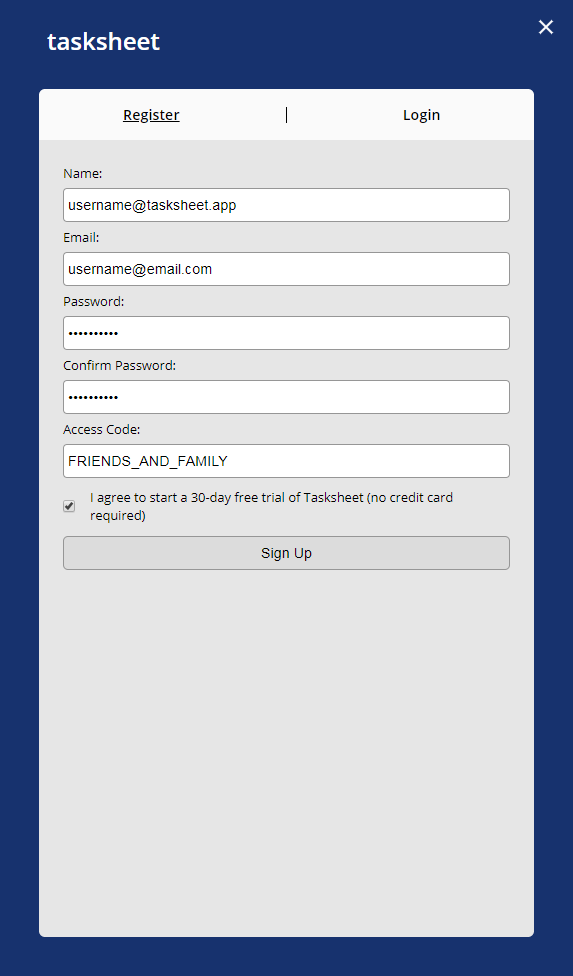
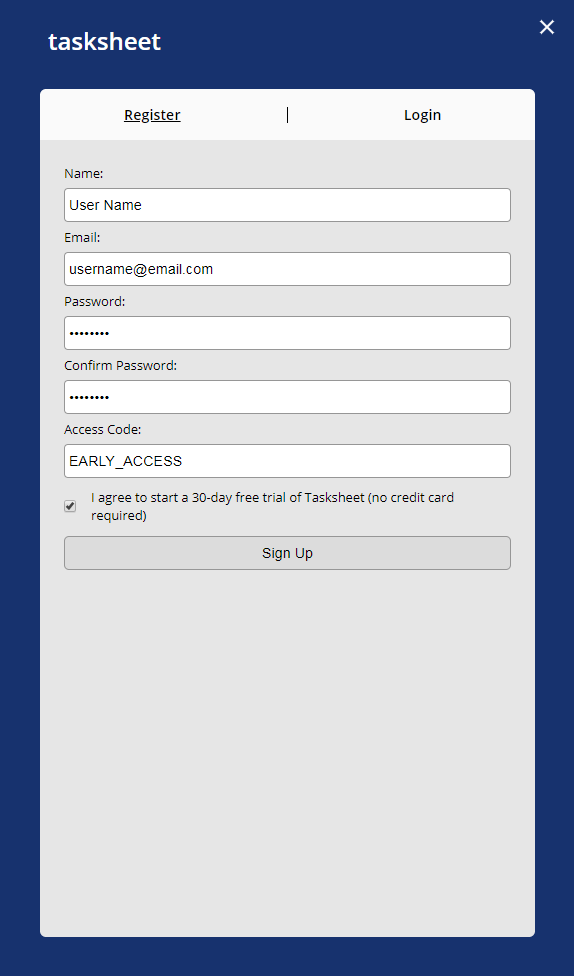
[Desktop][Improvement] Updates to help topics

diff --git a/resources/js/bundles/Desktop/Help/Topics/GettingStarted.tsx b/resources/js/bundles/Desktop/Help/Topics/GettingStarted.tsx
@@ -19,12 +19,12 @@ const GettingStarted = () => {
   return (
     <ContentContent>
       <SettingsGroup
-        header="1. Open the registration form">
+        header="Sign Up For An Account">
         <HelpColumns>
           <HelpColumn>
             <HelpText
               containerMarginBottom="0">
-              If you haven't signed up for an account yet, please start by clicking on the link in the top right of the window.
+              <b>1)</b> If you haven't signed up for an account yet, please start by clicking on the link in the top right of the window.
             </HelpText>
           </HelpColumn>
           <HelpColumn>
@@ -34,18 +34,13 @@ const GettingStarted = () => {
               src={environment.assetUrl + 'images/help/getting-started/register-link.png'}/>
           </HelpColumn>
         </HelpColumns>
-      </SettingsGroup>
-      <SettingsGroup
-        header="2. Sign up for an account">
-        <HelpColumns>
-          <HelpColumn>
+        <HelpColumns
+          containerAlignItems="flex-start">
+          <HelpColumn
+            containerAlignItems="flex-start">
             <HelpText
               containerMarginBottom="0">
-              This will open the form to register for an account.
-              <br/><br/>
-              Tasksheet is currently in an early-access beta, and new registrations require an access code. 
-              <br/>
-              The access code is: <b>FRIENDS_AND_FAMILY</b>
+              <b>2)</b> This will open the form to register for an account. Tasksheet is currently in an early-access beta and new registrations require an access code. The access code is <b>EARLY_ACCESS</b>
             </HelpText>
           </HelpColumn>
           <HelpColumn>

diff --git a/resources/js/bundles/Desktop/Site/SiteRegisterForm.tsx b/resources/js/bundles/Desktop/Site/SiteRegisterForm.tsx
@@ -31,7 +31,7 @@ const SiteRegisterForm = () => {
     e.preventDefault()
     if(isEmail(emailInputValue) && passwordInputValue === confirmPasswordInputValue && startTrialCheckboxValue) {
       setRegisterStatus('REGISTERING')
-      if(accessCodeInputValue === 'FRIENDS_AND_FAMILY') {
+      if(accessCodeInputValue === 'EARLY_ACCESS') {
         action.userRegister(nameInputValue, emailInputValue, passwordInputValue, accessCodeInputValue).then(
           response => {
             if(response.status === 200) {
@@ -56,7 +56,7 @@ const SiteRegisterForm = () => {
   const statusMessages = {
     READY: "",
     REGISTERING: "",
-    INCORRECT_ACCESS_CODE: "Your access code is incorrect. Tasksheet is in closed beta and requires an access code to sign up for an account. Please email eastmanrjr@gmail.com if you're interested in joining the beta - we'd love to have you!",
+    INCORRECT_ACCESS_CODE: "Your access code is incorrect. Tasksheet is in closed beta and requires an access code to sign up for an account.",
     ERROR_DURING_REGISTRATION: "We were unable to sign you up for an account. Please make sure you have entered all of your information correctly and try again."
   }
   

diff --git a/resources/js/bundles/Desktop/Help/HelpColumns.tsx b/resources/js/bundles/Desktop/Help/HelpColumns.tsx
@@ -9,10 +9,12 @@ import styled from 'styled-components'
 //-----------------------------------------------------------------------------
 const HelpColumns = ({
   children,
+  containerAlignItems = 'center',
   containerWidth = '100%'
 }: IHelpColumns) => {
   return (
     <Container
+      containerAlignItems={containerAlignItems}
       containerWidth={containerWidth}>
       {children}
     </Container>
@@ -25,6 +27,7 @@ const HelpColumns = ({
 interface IHelpColumns {
   children?: any
   containerWidth?: string
+  containerAlignItems?: 'flex-start' | 'center'
 }
 
 //-----------------------------------------------------------------------------
@@ -34,10 +37,11 @@ const Container = styled.div`
   width: ${ ({ containerWidth }: IContainer ) => containerWidth };
   display: flex;
   justify-content: flex-start;
-  align-items: center;
+  align-items: ${ ({ containerAlignItems }: IContainer ) => containerAlignItems };
 `
 interface IContainer {
   containerWidth: IHelpColumns['containerWidth']
+  containerAlignItems: IHelpColumns['containerAlignItems']
 }
 
 //-----------------------------------------------------------------------------

diff --git a/resources/js/bundles/Desktop/Help/Topics/Welcome.tsx b/resources/js/bundles/Desktop/Help/Topics/Welcome.tsx
@@ -14,13 +14,13 @@ const Welcome = () => {
   return (
     <ContentContent>
       <HelpText>
-        Hi there. Welcome to Tasksheet! We're glad you're here.
+        Hi there. Welcome to Tasksheet!
       </HelpText>
       <HelpText>
-        The information in the help topics below have been organized to give you a quick - but thorough - understanding of how to use Tasksheet. We will also discuss best practices that we have found helpful as we've used Tasksheet internally.
+        The information in the topics below have been organized to help you get started using Tasksheet. There are also examples of the recommended best practices.
       </HelpText>
       <HelpText>
-        If you have any questions as you learn Tasksheet, please don't hesitate to reach out to our support team: <a href="mailto: support@tasksheet.app">support@tasksheet.app</a>
+        Keeping things simple is a core part of our development philosophy. We hope that Tasksheet is intuitive enough to use that this documentation isn't necessary - but if you're stuck, odds are the answers are here!
       </HelpText>
     </ContentContent>
   )

diff --git a/resources/js/bundles/Desktop/Help/HelpColumn.tsx b/resources/js/bundles/Desktop/Help/HelpColumn.tsx
@@ -9,10 +9,12 @@ import styled from 'styled-components'
 //-----------------------------------------------------------------------------
 const HelpColumn = ({
   children,
+  containerAlignItems = 'center',
   containerWidth = '50%'
 }: IHelpColumn) => {
   return (
     <Container
+      containerAlignItems={containerAlignItems}
       containerWidth={containerWidth}>
       {children}
     </Container>
@@ -25,6 +27,7 @@ const HelpColumn = ({
 interface IHelpColumn {
   children?: any
   containerWidth?: string
+  containerAlignItems?: 'flex-start' | 'center'
 }
 
 //-----------------------------------------------------------------------------
@@ -35,10 +38,11 @@ const Container = styled.div`
   padding: 1rem;
   display: flex;
   justify-content: flex-start;
-  align-items: center;
+  align-items: ${ ({ containerAlignItems }: IContainer ) => containerAlignItems };
 `
 interface IContainer {
   containerWidth: IHelpColumn['containerWidth']
+  containerAlignItems: IHelpColumn['containerAlignItems']
 }
 
 //-----------------------------------------------------------------------------

diff --git a/resources/js/bundles/Desktop/Help/HelpSidebar.tsx b/resources/js/bundles/Desktop/Help/HelpSidebar.tsx
@@ -23,10 +23,6 @@ const HelpSidebar = ({
         textFontWeight="bold"
         textMarginLeft="0.3rem"/>
         <ContentSidebarItem
-          isActive={activeContent === 'ABOUT_TASKSHEET'}
-          onClick={() => setActiveContent('ABOUT_TASKSHEET')}
-          text="About Tasksheet"/>
-        <ContentSidebarItem
           isActive={activeContent === 'GETTING_STARTED'}
           onClick={() => setActiveContent('GETTING_STARTED')}
           text="Getting Started"/>
@@ -34,6 +30,10 @@ const HelpSidebar = ({
           isActive={activeContent === 'HELPFUL_TIPS'}
           onClick={() => setActiveContent('HELPFUL_TIPS')}
           text="Helpful Tips"/>
+        <ContentSidebarItem
+          isActive={activeContent === 'FAQ'}
+          onClick={() => setActiveContent('FAQ')}
+          text="FAQ"/>
       <ContentSidebarItem
         isActive={activeContent === 'VIEWS'}
         onClick={() => setActiveContent('VIEWS')}

diff --git a/resources/js/bundles/Desktop/Help/Help.tsx b/resources/js/bundles/Desktop/Help/Help.tsx
@@ -9,9 +9,9 @@ import HelpSidebar from '@desktop/Help/HelpSidebar'
 
 export type IHelpContent = 
   'WELCOME' |
-    'ABOUT_TASKSHEET' |
     'GETTING_STARTED' |
     'HELPFUL_TIPS' |
+    'FAQ' |
   'VIEWS' |
     'FILTERS' |
     'GROUPS' |
@@ -21,13 +21,13 @@ export type IHelpContent =
 //-----------------------------------------------------------------------------
 const Help = () => {
 
-  const [ activeContent, setActiveContent ] = useState('WELCOME' as IHelpContent)
+  const [ activeContent, setActiveContent ] = useState('GETTING_STARTED' as IHelpContent)
 
   const headers = {
     WELCOME: 'Welcome',
-      ABOUT_TASKSHEET: 'About Tasksheet',
       GETTING_STARTED: 'Getting Started',
       HELPFUL_TIPS: 'Helpful Tips',
+      FAQ: 'FAQ',
     VIEWS: 'Views',
       FILTERS: 'Filters',
       GROUPS: 'Groups',

diff --git a/resources/js/bundles/Desktop/Help/HelpContent.tsx b/resources/js/bundles/Desktop/Help/HelpContent.tsx
@@ -5,7 +5,7 @@ import React from 'react'
 
 import { IHelpContent } from '@desktop/Help/Help'
 
-import AboutTasksheet from '@desktop/Help/Topics/AboutTasksheet'
+import FAQ from '@desktop/Help/Topics/FAQ'
 import Filters from '@desktop/Help/Topics/Filters'
 import GettingStarted from '@desktop/Help/Topics/GettingStarted'
 import HelpfulTips from '@desktop/Help/Topics/HelpfulTips'
@@ -23,9 +23,9 @@ const HelpContent = ({
 
   const content = {
     WELCOME: Welcome,
-      ABOUT_TASKSHEET: AboutTasksheet,
       GETTING_STARTED: GettingStarted,
       HELPFUL_TIPS: HelpfulTips,
+      FAQ: FAQ,
     VIEWS: Views,
       FILTERS: Filters,
       GROUPS: Groups,

diff --git a/app/Http/Controllers/Auth/RegisterController.php b/app/Http/Controllers/Auth/RegisterController.php
@@ -68,7 +68,7 @@ class RegisterController extends Controller
         $accessCode = $request->input('accessCode');
     
         // If the access code is correct
-        if($accessCode === 'FRIENDS_AND_FAMILY') {
+        if($accessCode === 'EARLY_ACCESS') {
 
           // Validate the inputs and get the new user's information
           $newUserInfo = $request->validate([
